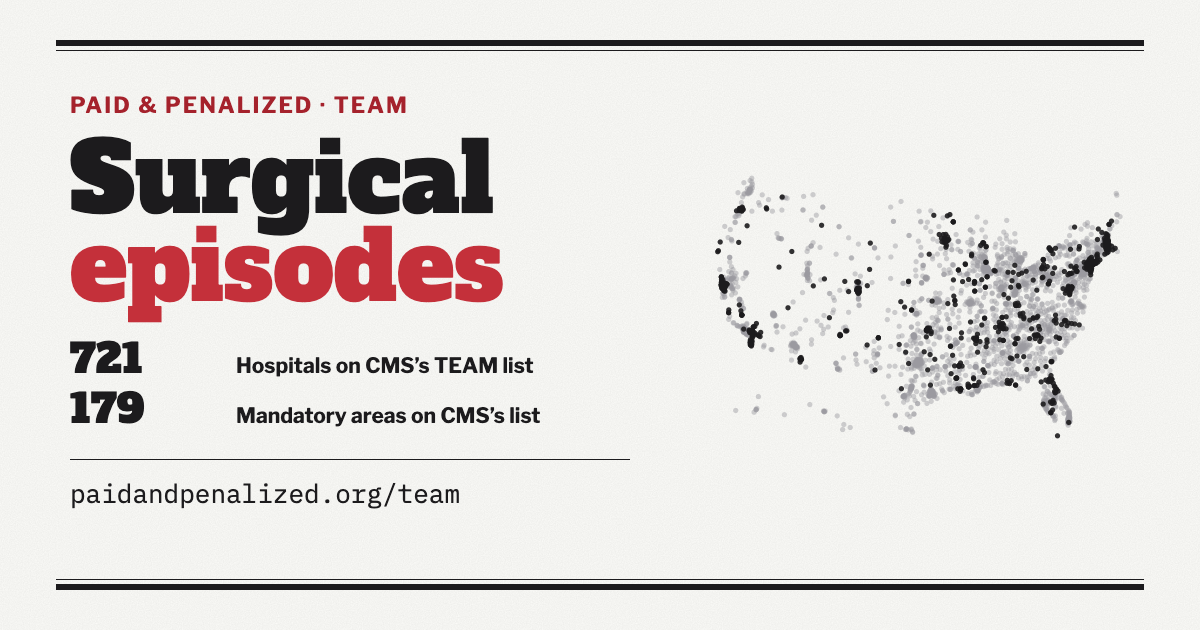
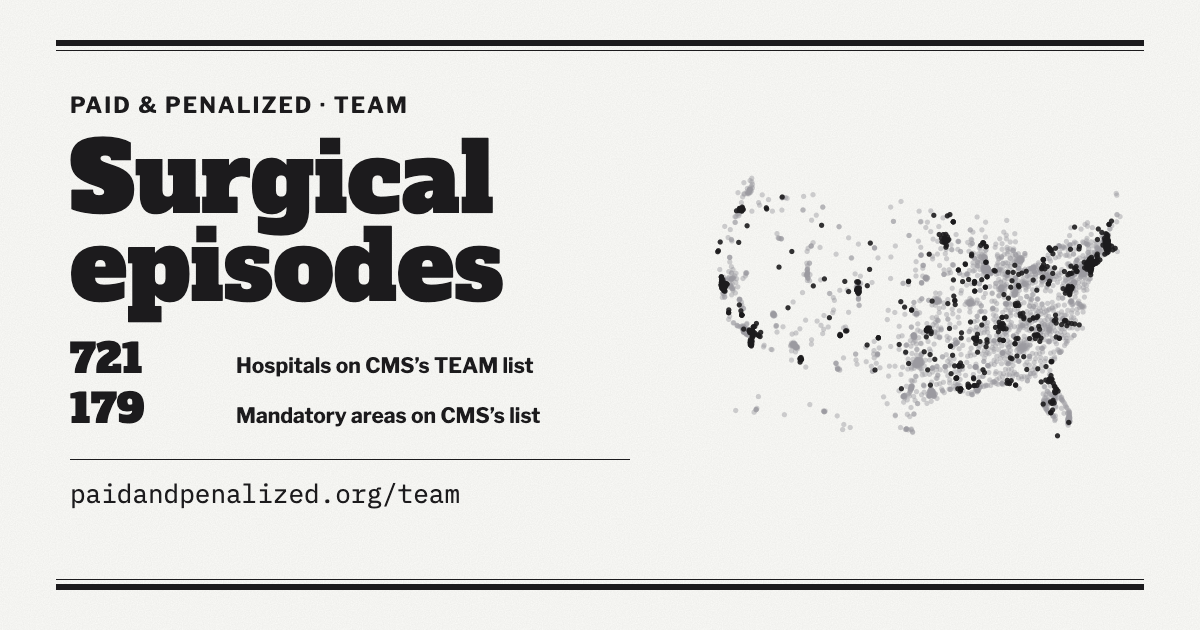
TEAM review fixes: an ink share card, the ruler in the map kit, honest card alt text, independent directory counts
- Share card: a per-card penWords option; TEAM's title and kicker are in ink, since it is a
  payment model. web/og/team.png re-rendered; the other cards are byte for byte as they were.
- The ruler's rules (and the kit's tick, value, hatch and hit rules it needs) live in the
  map kit, charts-map.css, which the hub and every program site carry; the hub sheet drops
  its copies. A test checks the kit styles every class the ruler draws.
- TEAM card alt text: the map shows the hospitals with a point on it, dark in the model's
  second year; the list's count includes those not on the map.
- The directory e2e derives its card, slip and group counts from SITE.programs by the rule
  written in the test, not from below.js's own split (no longer exported).

Claude-Session: https://claude.ai/code/session_01F7AWSP84MN13zwfRoExVmx

Changed region(s): [[0.0617, 0.3619, 0.4317, 0.5127], [0.0617, 0.1508, 0.3392, 0.181]]

diff --git a/tools/og/card.js b/tools/og/card.js
@@ -13,7 +13,8 @@
 // penalized, the count at the maximum), its dots red where the hospital's payment adjustment factor is below 1. TEAM's
 // card is HACRP's frame with two of the TEAM file's counts under the title (the hospitals on CMS's list, the areas CMS
 // drew), its dots dark for a hospital in TEAM in performance year 2 and a pale gray otherwise: membership, never a
-// result (a card with `ink` carries the dark dots' rule and the paler gray). No other card holds a number, and none a byline.
+// result (a card with `ink` carries the dark dots' rule and the paler gray), and its words all in ink, the penalty red
+// nowhere (`penWords: false`): TEAM is a payment model. No other card holds a number, and none a byline.
 import { readFileSync } from 'node:fs';
 import { hubAsset } from '../../hub/asset.js';
 import { hubModel } from '../../hub/data.js';
@@ -58,8 +59,9 @@ const host = new URL(SITE.origin).host;
 // A title as the program's page sets it: a line per word, a hyphenated word broken after its hyphen.
 const titleLines = (title) => title.split(' ').flatMap((word) => word.split(/(?<=-)/));
 
-// Each card's words and its dots' rule. lines: the big type, a line each, the last in the penalty red; size its font
-// size and top the words' top edge, in px. tone({ ccn, net }, { cut }): a dot's ink, 'pen', 'rew' or null (gray), from
+// Each card's words and its dots' rule. lines: the big type, a line each, the last in the penalty red (and the kickers in
+// the red's text ink) unless penWords is false, when every word is in ink; size its font size and top the words' top
+// edge, in px. tone({ ccn, net }, { cut }): a dot's ink, 'pen', 'rew' or null (gray), from
 // the hospital's net dollars in the hub asset or its CCN among HACRP's cut hospitals (cut, a Set).
 export const CARDS = {
   family: {
@@ -108,6 +110,8 @@ export const CARDS = {
     // TEAM in performance year 2, gray for the rest.
     tone: ({ ccn }, { teamIn }) => (teamIn.has(ccn) ? 'ink' : null),
     ink: true,
+    // A payment model, never a penalty: the title and kicker in ink.
+    penWords: false,
     // The hospitals CMS's list names and the areas it drew, from the TEAM file's counts.
     fields: ({ team }) => [
       [count(team.counts.listed), teamT('ogListed')],
@@ -170,7 +174,8 @@ export function cardHtml(id, inputs) {
     if (!fonts[file]) throw new RangeError(`share card: no font file "${file}"`);
     return `@font-face { font-family: '${family}'; font-weight: ${weight}; font-style: normal; src: url(data:font/woff2;base64,${fonts[file]}) format('woff2'); }`;
   });
-  const last = card.lines.length - 1;
+  // The line in the penalty red: the title's last, unless the card's words are all in ink.
+  const last = card.penWords === false ? -1 : card.lines.length - 1;
   const css = `* { box-sizing: border-box; margin: 0; }
 html, body { width: ${CARD_SIZE.width}px; height: ${CARD_SIZE.height}px; overflow: hidden; }
 body { position: relative; background: var(--grain) repeat, var(--paper); color: var(--ink); font-family: var(--font-body); }
@@ -193,7 +198,7 @@ body { position: relative; background: var(--grain) repeat, var(--paper); color:
 .kick + .addr { margin-top: 14px; }
 .mapbox { position: absolute; right: 70px; top: 96px; width: ${MAP_BOX.width}px; height: ${MAP_BOX.height}px; }
 .map circle { fill-opacity: .85; }
-.map .pen { fill: var(--pen); } .map .rew { fill: var(--rew); } .map .none { fill: var(--ink-3); }${card.ink ? '\n.map .ink { fill: var(--ink); fill-opacity: .9; } .map .none { fill: var(--neutral); fill-opacity: .45; }' : ''}`;
+.map .pen { fill: var(--pen); } .map .rew { fill: var(--rew); } .map .none { fill: var(--ink-3); }${card.ink ? '\n.map .ink { fill: var(--ink); fill-opacity: .9; } .map .none { fill: var(--neutral); fill-opacity: .45; }' : ''}${card.penWords === false ? '\n.kick { color: var(--ink); }' : ''}`;
   return html`<!doctype html>
 <!-- drawn with ${raw(JSON.stringify(RENDER))} -->
 <html lang="en"><head><meta charset="utf-8">

diff --git a/web/styles/charts.css b/web/styles/charts.css
@@ -52,15 +52,12 @@ th[aria-sort="descending"] .fig__sort::after { content: " \2193" / ""; color: va
 
 /* ---------- the SVG ---------- */
 .chart-axis__line, .chart-axis__tick { stroke: var(--ink-3); stroke-width: 1px; vector-effect: non-scaling-stroke; }
-/* Tick labels in --ink-2: --ink-3 clears 4.5:1 on the grained paper only narrowly, and the axe run cannot judge text in an SVG, so a chart's text keeps the stronger ink. */
-.chart-axis__label, .chart-tick { fill: var(--ink-2); font-family: var(--font-type); font-size: 11px; font-variant-numeric: tabular-nums; }
 .chart-grid { stroke: var(--line); stroke-opacity: 0.35; stroke-width: 1px; vector-effect: non-scaling-stroke; }
 .chart-zero { stroke: var(--ink); stroke-width: 1px; vector-effect: non-scaling-stroke; }
 .chart-label { fill: var(--ink); font-weight: 600; }
 /* A label set over marks keeps a paper halo, so a column never crosses its letters. */
 .chart-label--halo { paint-order: stroke; stroke: var(--paper); stroke-width: 3px; stroke-linejoin: round; }
 .chart-axis__title { fill: var(--ink-2); font-size: 11px; }
-.chart-value { fill: var(--ink); font-family: var(--font-type); font-variant-numeric: tabular-nums; }
 /* A mark's own number (the ruler's ▲), at tick size. */
 .chart-value--mark { font-size: 11px; }
 .chart-legend__label { fill: var(--ink); font-size: 11px; }
@@ -81,7 +78,6 @@ th[aria-sort="descending"] .fig__sort::after { content: " \2193" / ""; color: va
 .chart-tile-few { fill: none; stroke: var(--ink); stroke-width: 1px; stroke-dasharray: 2 2; vector-effect: non-scaling-stroke; pointer-events: none; }
 .chart-tile-few--on { stroke: var(--on-mark); }
 .chart-tile-empty { fill: none; stroke: var(--ink-3); stroke-width: 1px; stroke-dasharray: 3 2; vector-effect: non-scaling-stroke; }
-.chart-hatch { color: var(--ink-3); }
 /* Values that score the same as CMS's floor or cap: the hatch, with a hairline where it starts. */
 .chart-dead__end { stroke: var(--ink-2); stroke-width: 1px; vector-effect: non-scaling-stroke; }
 /* The median crosses the axis in ink, so it never reads as one of the axis's ticks. */
@@ -150,8 +146,7 @@ th[aria-sort="descending"] .fig__sort::after { content: " \2193" / ""; color: va
 /* The state the hospital table lists (sites/hacrp/client/program.js), from a link or a pick. */
 .chart-mark.is-picked .chart-geo-state { stroke-width: 3px; }
 
-/* The hit area is larger than its mark and invisible until the mark is the active one (web/client/figure.js). */
-.chart-hit { fill: transparent; }
+/* The hit area (invisible: charts-map.css) shows once its mark is the active one (web/client/figure.js). */
 .chart-mark.is-active .chart-hit { fill: var(--ink); fill-opacity: 0.07; }
 /* A tile is its own hit area: the active one gets an ink outline. */
 .chart-mark.is-active :is(.chart-tile, .chart-tile-na) { stroke: var(--ink); stroke-width: 2px; vector-effect: non-scaling-stroke; }
@@ -164,7 +159,6 @@ th[aria-sort="descending"] .fig__sort::after { content: " \2193" / ""; color: va
   .fig__swatch--this, .fig__swatch--median::before, .fig__swatch--median::after { forced-color-adjust: none; background: CanvasText; }
   .fig__swatch--bar-dark { forced-color-adjust: none; background: CanvasText; }
   .fig__swatch--bar-light { forced-color-adjust: none; background: Canvas; border-color: CanvasText; }
-  .chart-hatch { color: CanvasText; }
   .chart-bar-na, .chart-tile-na, .chart-tile-empty, .chart-tile-zero, .chart-tile-few, .chart-dead__end { stroke: CanvasText; }
   .chart-tile-zero { fill: Canvas; }
   .chart-tile, .chart-tile__code, .chart-tile__value, .chart-tile-few--on { forced-color-adjust: none; }

diff --git a/web/styles/charts-map.css b/web/styles/charts-map.css
@@ -1,6 +1,7 @@
-/* The map kit: the part of the chart kit (charts.css) that the hub's page of a hospital outside the programs draws
-   (hub/hospital/outside-figures.js): a figure's caption, key and tooltip, the SVG's frame, the area map with its pins and
-   reading aids, the dots, a map's land and the nearest hospitals' table. The hub's sheet carries this file alone; a
+/* The map kit: the part of the chart kit (charts.css) that the hub's hospital pages draw (hub/hospital/outside-figures.js,
+   and the TEAM section's ruler, hub/hospital/team.js): a figure's caption, key and tooltip, the SVG's frame, the kit's
+   tick and value text, hatch and hit areas, the area map with its pins and reading aids, the dots, a map's land, the
+   scenario ruler and the nearest hospitals' table. The hub's sheet carries this file alone; a
    program site's carries it ahead of the rest of the kit (pipeline/site/assets.js KIT_STYLES). Colors come only from
    tokens.css. */
 
@@ -29,6 +30,13 @@
   .chart[data-fit="narrow"] { display: none; }
   .chart[data-fit="wide"] { display: block; }
 }
+/* Tick labels in --ink-2: --ink-3 clears 4.5:1 on the grained paper only narrowly, and the axe run cannot judge text in an SVG, so a chart's text keeps the stronger ink. */
+.chart-axis__label, .chart-tick { fill: var(--ink-2); font-family: var(--font-type); font-size: 11px; font-variant-numeric: tabular-nums; }
+.chart-value { fill: var(--ink); font-family: var(--font-type); font-variant-numeric: tabular-nums; }
+.chart-hatch { color: var(--ink-3); }
+/* The hit area is larger than its mark and invisible (charts.css shows the active one's). */
+.chart-hit { fill: transparent; }
+@media (forced-colors: active) { .chart-hatch { color: CanvasText; } }
 
 /* ---------- the area map ---------- */
 /* The area map: neighboring states as land on a plain ground, numbered pins by decision. */
@@ -76,6 +84,19 @@
 /* A map's land, faint behind its marks (the year map's states, the bubbles map's outline). */
 .chart-land, .chart-land path { fill: var(--paper-2); stroke: var(--line); stroke-width: 0.6px; vector-effect: non-scaling-stroke; }
 @media (forced-colors: active) { .chart-land, .chart-land path { fill: Canvas; stroke: GrayText; } }
+
+/* ---------- the scenario ruler ---------- */
+/* A range against its track's limits (limitRuler.js; the hub's TEAM section draws it): the repaid part in the pen, the
+   paid part in the paid ink, the walls hatched past each limit. */
+.chart-ruler__loss { fill: var(--pen); }
+.chart-ruler__gain { fill: var(--rew); }
+.chart-ruler__limit, .chart-ruler__axis { stroke: var(--ink-2); stroke-width: 1px; vector-effect: non-scaling-stroke; }
+.chart-ruler__zero { stroke: var(--ink); stroke-width: 1.5px; vector-effect: non-scaling-stroke; }
+.chart-ruler__end { font-size: 12px; font-weight: 700; }
+@media (forced-colors: active) {
+  .chart-ruler__loss, .chart-ruler__gain { fill: CanvasText; }
+  .chart-ruler__limit, .chart-ruler__axis, .chart-ruler__zero { stroke: CanvasText; }
+}
 
 /* ---------- the nearest hospitals' table ----------
    HACRP's hospital page (sites/hacrp/web/hospital-figures.js nearbyBlock) and the hub's page of a hospital outside the

diff --git a/tools/e2e/story.test.js b/tools/e2e/story.test.js
@@ -5,7 +5,6 @@
 // (E2E_BASE_URL); see site.js.
 import { describe, it } from 'node:test';
 import assert from 'node:assert/strict';
-import { directorySplit } from '../../hub/home/below.js';
 import { SITE } from '../../web/site.js';
 import { audit } from './axe.js';
 import { CONCURRENCY, ENGINE, SCHEMES, TAB_KEYS, assertNoSideways, assertQuiet, clickInPlace, fetchDecoded, settle, useBrowser, useContext, visit, withPage } from './lib.js';
@@ -801,11 +800,13 @@ describe('the worksheet on a narrow phone', () => {
 // Below the story, the directory: each card (the programs with data, the payment models live here, then the scenarios')
 // ends in a way to its page whose words sit on one line, as its neighbours' do; and the programs under consideration: at
 // every layout each group's name sits on one line inside its row, each slip's band holds its words on one line, and
-// slips in one row are one height with their bands on one bottom edge (from 1200 px they share one row). The counts are
-// the directory's own split of the registry (hub/home/below.js directorySplit), so a program that changes stage needs no
-// edit here.
-const SPLIT = directorySplit(SITE.programs);
-const CARDS = SPLIT.live.length + SPLIT.models.length + SPLIT.scenarios.length;
+// slips in one row are one height with their bands on one bottom edge (from 1200 px they share one row). The counts come
+// from the registry by the directory's rule, written out here (not hub/home/below.js's own split, so a fault there
+// fails): a card for each program with data, each scenario, and each payment model live here; a slip for each program
+// under consideration, under its group's name.
+const CARDS = SITE.programs.filter((p) => p.inData || p.scenario || p.stage === 'live').length;
+const SOON = SITE.programs.filter((p) => !p.inData && !p.scenario && p.stage === 'soon');
+const SPLIT = { soon: SOON, soonGroups: [...new Set(SOON.map((p) => p.group))] };
 describe('the directory\'s slips', { concurrency: CONCURRENCY }, () => {
   const tabs = useContext(shared, { width: 1024 });
   it('fit their rows and bands, and line up, at 1024, 1100, 1199, 1200, 1280, 1440 and 390 px', () => withPage(tabs, { path: '/' }, async (page) => {

diff --git a/hub/styles.css b/hub/styles.css
@@ -771,26 +771,9 @@ svg.st { display: block; width: 100%; height: auto; overflow: visible; }
 }
 
 /* The TEAM section (hub/hospital/team.js), the Medicaid band's twin in every class above: for a participant, its scenario
-   range on its track's limits (web/charts/limitRuler.js), the phone's drawing under 560px and the wide one from there
-   (charts-map.css .chart[data-fit]). The hub's sheet carries only the map part of the chart kit, so the few kit rules the
-   ruler needs are here, scoped to it: its labels (in rem, the kit's 11 and 12 units at the default text size, so they
-   grow with the reader's), the hatch, the invisible hit areas. The repaid part in the pen, the paid part in the paid ink,
-   the walls hatched past each limit. */
+   range on its track's limits (web/charts/limitRuler.js, styled by the map kit the hub carries, charts-map.css), the
+   phone's drawing under 560px and the wide one from there (.chart[data-fit]). */
 .hh__tmr { max-width: 40rem; margin-top: 12px; }
-.hh__tmr .chart-tick { fill: var(--ink-2); font-family: var(--font-type); font-size: 0.6875rem; font-variant-numeric: tabular-nums; }
-.hh__tmr .chart-value { fill: var(--ink); font-family: var(--font-type); font-variant-numeric: tabular-nums; }
-.hh__tmr .chart-hatch { color: var(--ink-3); }
-.hh__tmr .chart-hit { fill: transparent; }
-.chart-ruler__loss { fill: var(--pen); }
-.chart-ruler__gain { fill: var(--rew); }
-.chart-ruler__limit, .chart-ruler__axis { stroke: var(--ink-2); stroke-width: 1px; vector-effect: non-scaling-stroke; }
-.chart-ruler__zero { stroke: var(--ink); stroke-width: 1.5px; vector-effect: non-scaling-stroke; }
-.chart-ruler__end { font-size: 0.75rem; font-weight: 700; }
-@media (forced-colors: active) {
-  .hh__tmr .chart-hatch { color: CanvasText; }
-  .chart-ruler__loss, .chart-ruler__gain { fill: CanvasText; }
-  .chart-ruler__limit, .chart-ruler__axis, .chart-ruler__zero { stroke: CanvasText; }
-}
 
 /* The peer table's fold, then the source and fairness lines. */
 .hh__tbl { margin-top: 26px; padding-block: 28px 18px; border-top: 1px dotted var(--line); }

diff --git a/web/test/charts-team-bar.test.js b/web/test/charts-team-bar.test.js
@@ -4,7 +4,9 @@
 // the table its figure carries (figure() throws when one is not).
 import { test } from 'node:test';
 import assert from 'node:assert/strict';
-import { readPinned } from '../../pipeline/files.js';
+import { readFileSync } from 'node:fs';
+import { REPO_ROOT, readPinned } from '../../pipeline/files.js';
+import { MAP_KIT_STYLE } from '../../pipeline/site/assets.js';
 import { DIVISIONS } from '../../engine/js/divisions.js';
 import { divisionLabels, divisionMap } from '../charts/divisionMap.js';
 import { evenSteps } from '../charts/evenSteps.js';
@@ -188,6 +190,15 @@ test('limitRuler: its marks carry whole dollars, as limitRulerValues tables them
   const odd = { ...RULER, low: -546000.376000000004, high: 551000.5, limits: { gain: 2300000.25, loss: 2300000.25 } };
   assert.deepEqual(values(limitRuler({ ...odd, width: WIDTH })).sort((a, b) => a - b), [-2300000, -546000, 551001, 2300000]);
   assert.deepEqual(limitRulerValues(odd).map((r) => r.value), [-546000, 551001, -2300000, 2300000]);
+});
+
+test('limitRuler: the map kit every page that can draw it carries (charts-map.css, the hub\'s and every program site\'s) styles each class it draws; no page sheet keeps its own copy', () => {
+  const kit = readFileSync(`${REPO_ROOT}${MAP_KIT_STYLE}`, 'utf8');
+  // The frame's and the marks' own classes need no rule, nor the wall (its fill is the hatch, set on the element).
+  const drawn = new Set([...String(limitRuler({ ...RULER, width: WIDTH })).matchAll(/class="([^"]+)"/g)].flatMap((m) => m[1].split(' ')));
+  for (const cls of drawn) if (!['chart', 'chart-mark', 'chart-ruler__wall'].includes(cls) && !cls.startsWith('chart--')) assert.ok(kit.includes(`.${cls} `) || kit.includes(`.${cls},`), `the map kit styles .${cls}`);
+  const hub = readFileSync(`${REPO_ROOT}hub/styles.css`, 'utf8');
+  assert.doesNotMatch(hub, /\.chart-ruler__|\.hh__tmr \.chart-/, 'the hub sheet keeps no copy of the ruler\'s or the kit\'s rules');
 });
 
 test('limitRuler: bad input throws', () => {

diff --git a/tools/test/og.test.js b/tools/test/og.test.js
@@ -99,6 +99,27 @@ test('the TEAM card is dark for every hospital in TEAM in performance year 2 tha
   assert.deepEqual(nums, [fmtInt(INPUTS.team.counts.listed), fmtInt(INPUTS.team.counts.selectedAreas)]);
 });
 
+test('the TEAM card\'s words are all in ink (a payment model, never a penalty): no red title line, an ink kicker; the penalty cards keep their red line', () => {
+  const page = cardHtml('team', INPUTS);
+  const big = /<div class="big">([\s\S]*?)<\/div>/.exec(page)[1];
+  assert.doesNotMatch(big, /class="pen"/, 'no title line in the penalty red');
+  assert.ok(page.includes('.kick { color: var(--ink); }'), 'the kicker in ink');
+  for (const id of ['family', 'hacrp', 'hrrp']) {
+    const other = cardHtml(id, INPUTS);
+    assert.match(/<div class="big">([\s\S]*?)<\/div>/.exec(other)[1], /<span class="pen" data-fit>[^<]+<\/span>$/, `${id}: its last title line in the red`);
+    assert.ok(!other.includes('.kick { color: var(--ink); }'), `${id}: its kicker in the red's ink`);
+  }
+});
+
+test('the TEAM card\'s alt text claims no more than its map shows: hospitals with a point on it, the list counted whether placed or not', () => {
+  const placed = new Set(placedRows().map((r) => r[col('ccn')]));
+  const unplaced = INPUTS.team.participants.filter((p) => !placed.has(p.ccn)).length;
+  assert.ok(unplaced > 0, 'some listed hospitals have no point on the map');
+  assert.doesNotMatch(SHARE_CARDS.team, /a map of U\.S\. hospitals, each a dot/, 'not every hospital');
+  assert.match(SHARE_CARDS.team, /hospitals that have a point on it/);
+  assert.match(SHARE_CARDS.team, /on the map or not/);
+});
+
 test('cardDots: the TEAM card colors a hospital in TEAM dark and every other one gray, whatever its dollars', () => {
   assert.deepEqual(cardDots('team', { hub: HUB, cut: CUT, hrrpCut: new Set(), teamIn: new Set(['A2', 'A3', 'A5']) }), [[1, 1, null], [4, 4, null], [5, 5, null], [2, 2, 'ink'], [3, 3, 'ink']]);
 });

diff --git a/web/share-card.js b/web/share-card.js
@@ -16,7 +16,7 @@ export const SHARE_CARDS = Object.freeze({
   family: typeset(`${SITE.name}: a map of U.S. hospitals, each a dot, red where Medicare's quality programs cut its pay on net, green where they raised it, gray where neither or where the site has no estimate.`),
   hacrp: typeset(`${SITE.name}, ${SITE.sites.hacrp.title}: a map of U.S. hospitals, each a dot, red where Medicare's ${programById('hacrp').long} cut its pay, gray elsewhere.`),
   hrrp: typeset(`${SITE.name}, ${SITE.sites.hrrp.title}: a map of U.S. hospitals, each a dot, red where Medicare's ${programById('hrrp').long} cut its pay, gray elsewhere; beside it, how many hospitals were penalized, the average cut among them and how many reached the maximum.`),
-  team: typeset(`${SITE.name}, ${SITE.sites.team.title} (${SITE.sites.team.subtitle}): a map of U.S. hospitals, each a dot, dark where the hospital is in Medicare's ${programById('team').long}, gray elsewhere; beside it, how many hospitals CMS's TEAM list names and how many areas CMS drew.`),
+  team: typeset(`${SITE.name}, ${SITE.sites.team.title} (${SITE.sites.team.subtitle}): a map of the U.S. hospitals that have a point on it, each a dot, dark where the hospital is in Medicare's ${programById('team').long} in the model's second year, gray elsewhere; beside it, how many hospitals CMS's TEAM list names, on the map or not, and how many areas CMS drew.`),
 });
 
 // The card a page's links show, by the page's path: its site's own card when it has one, else the family's.

diff --git a/hub/home/below.js b/hub/home/below.js
@@ -230,11 +230,10 @@ const slip = (p) => html`<a class="slip" href="${p.path}"><abbr class="ab" title
 // then the scenarios' cards under their own heading, then the rest, under consideration (stage soon), by group: the same
 // split as the tabs and the footer (web/site.js LISTED_PROGRAMS). The heading counts the programs with pages here (live:
 // with data, and the models), those under construction, and those under consideration; a scenario is none.
-// The directory's split of the registry's programs (pure; the page's browser checks read it too): live, the programs the
-// dollar estimates hold (a card each); models, the payment models live here outside them (a card each); scenarios (a card
-// each); soon, the rest under consideration (a slip each), and soonGroups, the groups those slips fall in, in GROUP_WORDS'
-// order (a heading each).
-export function directorySplit(programs) {
+// The directory's split of the registry's programs (pure): live, the programs the dollar estimates hold (a card each);
+// models, the payment models live here outside them (a card each); scenarios (a card each); soon, the rest under
+// consideration (a slip each), and soonGroups, the groups those slips fall in, in GROUP_WORDS' order (a heading each).
+function directorySplit(programs) {
   const soon = programs.filter((p) => !p.inData && !p.scenario && p.stage === 'soon');
   return {
     live: programs.filter((p) => p.inData),

diff --git a/web/test/forced-colors.test.js b/web/test/forced-colors.test.js
@@ -41,7 +41,7 @@ const MARKS = [
   '.chart-dots--years-clear', '.chart-dots--years-scar', '.chart-dots--years-hole', '.ymap__sw--now', '.ymap__sw--scar', '.ymap__sw--clear',
   // the hub's hospital page (hub/styles.css): the dollar rows' bars, median ticks and key, the hatched rows
   '.hh__bar', '.hh__tick', '.hh__key-tick', '.hh__out', '.hh__nextbox',
-  // the hub's hospital page's TEAM section (hub/styles.css): the scenario range on its track's limits (limitRuler.js)
+  // the scenario range on its track's limits (limitRuler.js; charts-map.css), which the hub's TEAM section draws
   '.chart-ruler__loss', '.chart-ruler__gain', '.chart-ruler__limit', '.chart-ruler__zero',
   // the hub's home page (hub/styles.css): the scale bar, the states map and its key, the small states' buttons
   '.sbar__frame', '.sbar__sliver', '.sbar__mag', '.sbar__np', '.sbar__bo', '.smap__land', '.smap__hatch', '.st', '.st--pen', '.st--rew',
